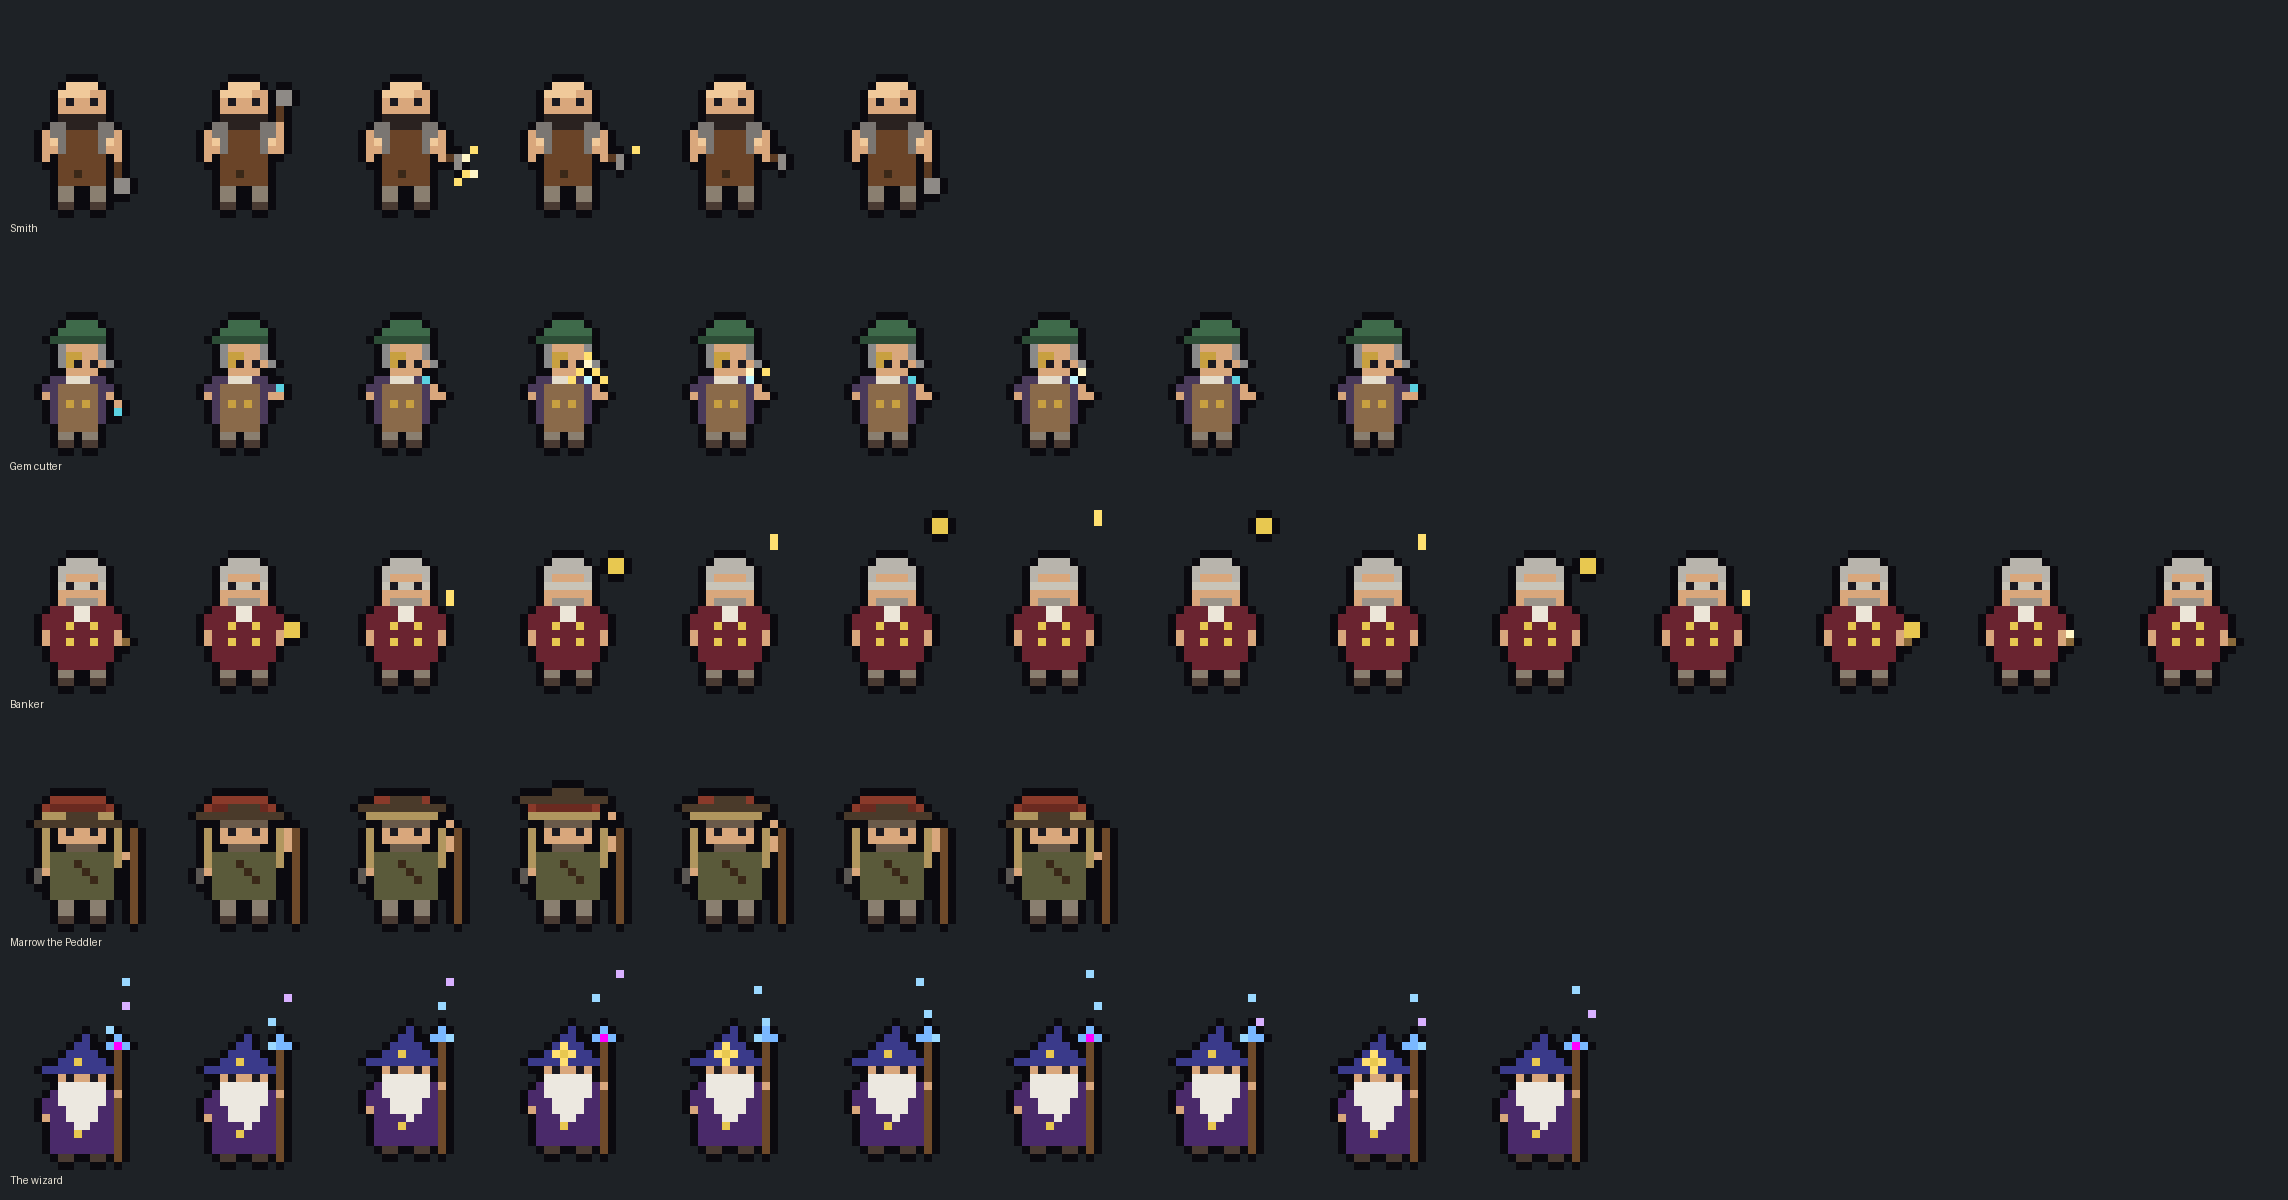
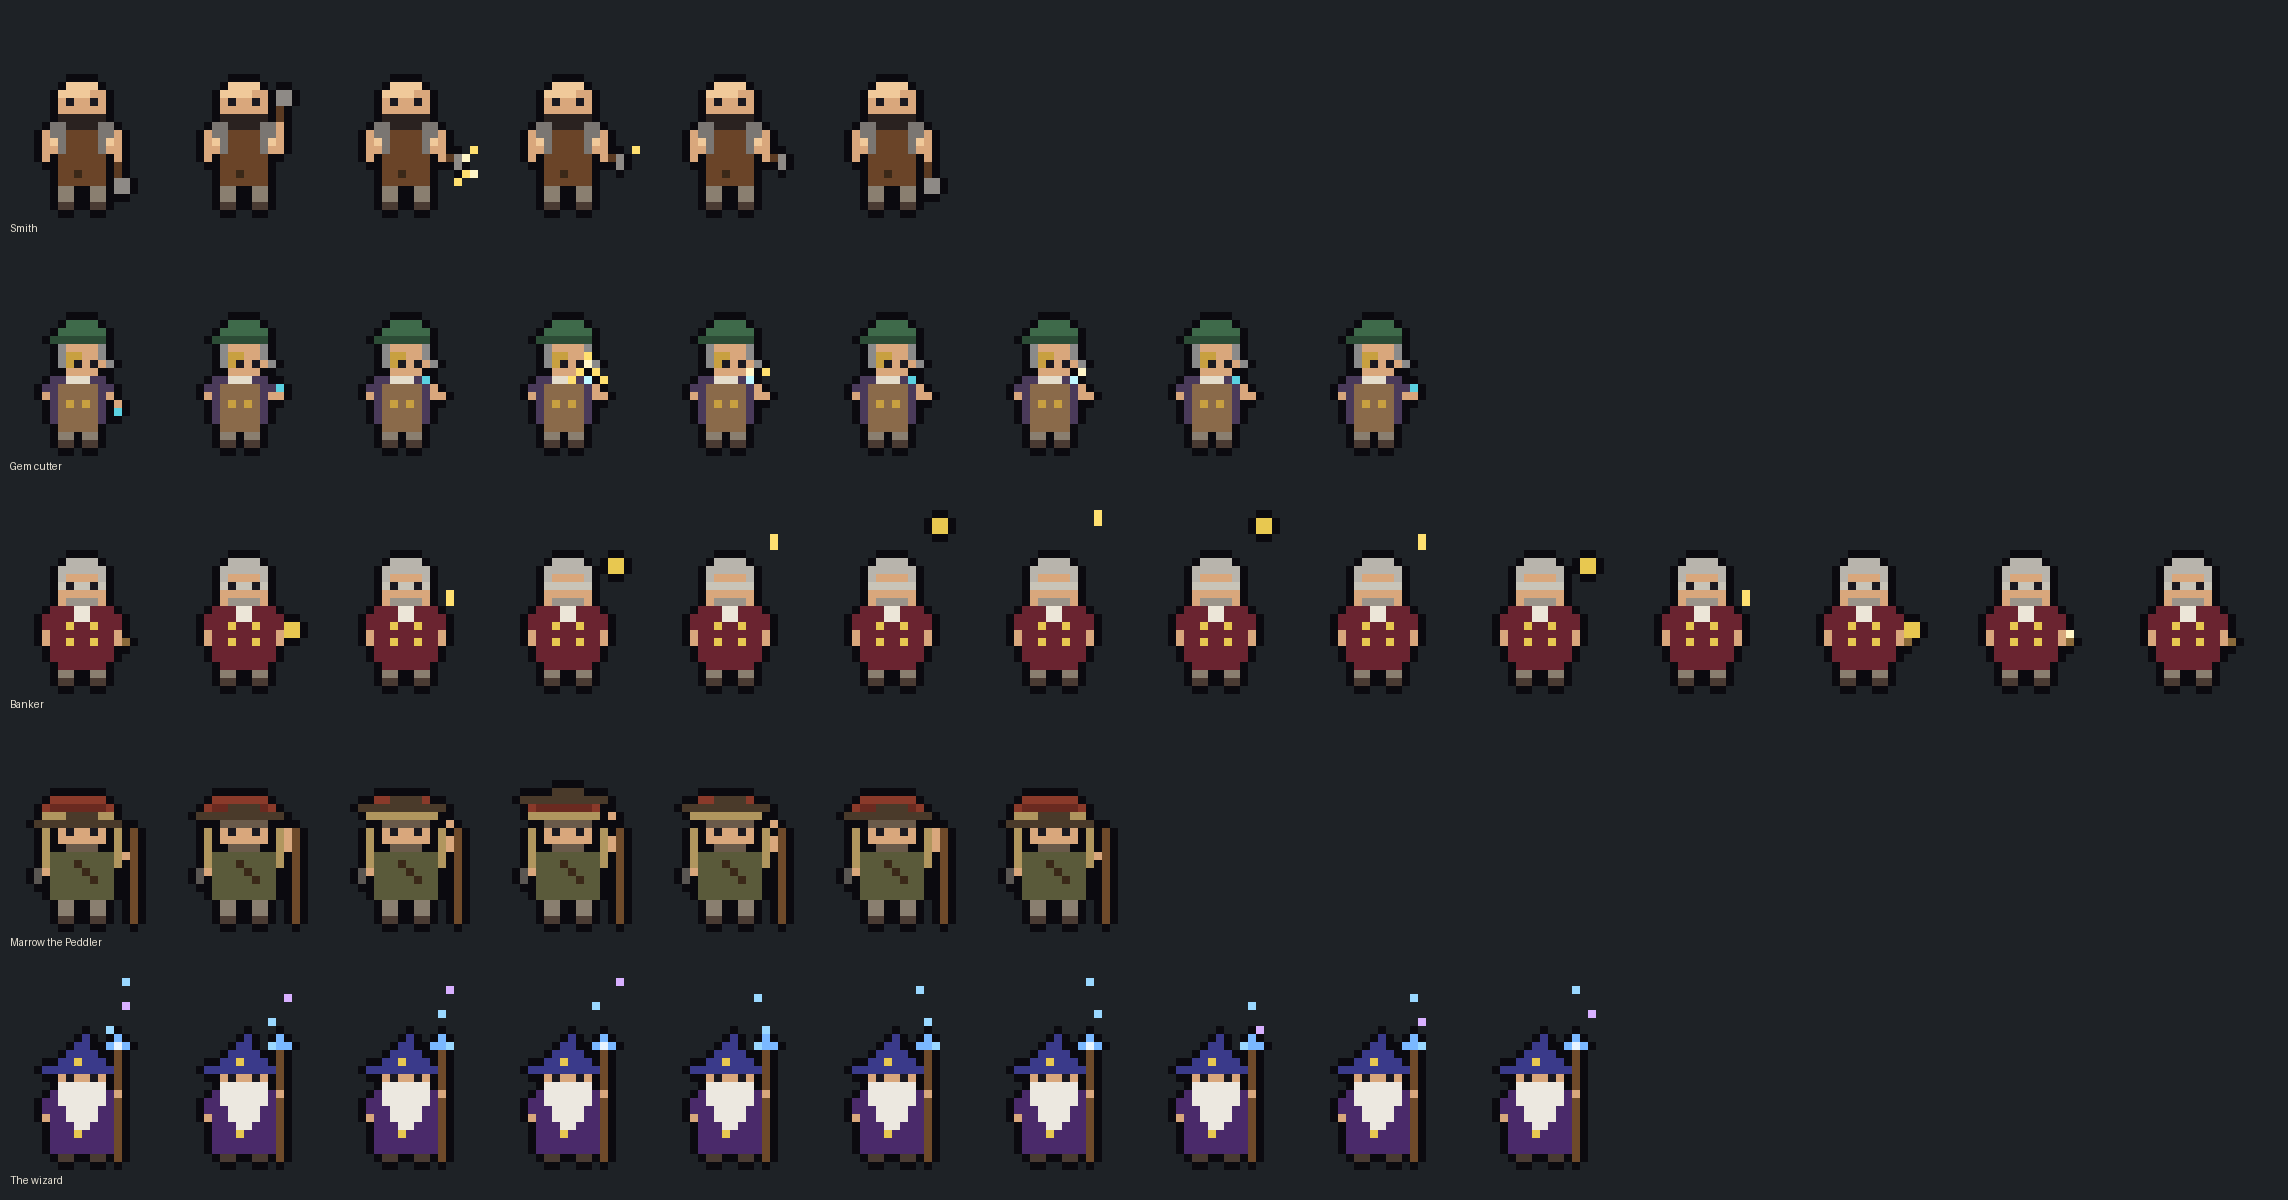
Townsfolk draft 2 OK'd; the wizard keeps only his staff animation
Claude-Session: https://claude.ai/code/session_012jDnDEzHaeD3VmYmvy65PL

Changed region(s): [[0.1552, 0.8325, 0.3413, 0.9867], [0.4344, 0.8325, 0.5586, 0.9867], [0.3724, 0.8633, 0.4034, 0.9867]]

diff --git a/art/drafts/townsfolk-review/index.html b/art/drafts/townsfolk-review/index.html
@@ -32,7 +32,7 @@ p{max-width:68ch;margin:0 0 12px}.soft{color:var(--soft)}
 <div class="p"><b>Gem cutter</b><div class="pic"><img src="townsfolk-draft2-gems.gif" alt="Gem cutter idle loop"></div><p>Lifts the gem up under her chin and turns it in the light. It flashes twice, then she lowers it.</p></div>
 <div class="p"><b>Banker</b><div class="pic"><img src="townsfolk-draft2-bank.gif" alt="Banker idle loop"></div><p>Flicks the coin high over his head. It spins (face, edge, face) on the way up and down, and he catches it. His glasses glint as he looks up.</p></div>
 <div class="p"><b>Marrow the Peddler</b><div class="pic"><img src="townsfolk-draft2-marrow.gif" alt="Marrow idle loop"></div><p>No more wink. He tips his hat right off his head, holds it there a moment, and puts it back.</p></div>
-<div class="p"><b>The wizard</b><div class="pic"><img src="townsfolk-draft2-wizard.gif" alt="Wizard idle loop"></div><p>Rises a pixel off the ground on a faint violet glow and floats. The orb swirls and sends sparks drifting up, the star on his hat twinkles, and his beard sways.</p></div>
+<div class="p"><b>The wizard</b><div class="pic"><img src="townsfolk-draft2-wizard.gif" alt="Wizard idle loop"></div><p>Stands still. Only his staff moves: the orb swirls and sends sparks floating up (owner, Nov 28).</p></div>
 </div>
 <h2>Every frame</h2>
 <div class="pic"><img src="townsfolk-draft2-frames.png" alt="All frames of every loop, one row per person"></div>
@@ -41,7 +41,7 @@ p{max-width:68ch;margin:0 0 12px}.soft{color:var(--soft)}
 <div class="pic"><img src="townsfolk-draft1-town.png" alt="Town 1 from above with the five townsfolk at their stations"></div>
 <div class="ask"><b>For your notes</b><ul>
 <li>Does each loop read now, and is the pace right? (Each one waits about a second between moves.)</li>
-<li>Is the wizard enough now, or does he need something bigger?</li>
+<li>Owner OK'd all five (Nov 28); next they go into the game.</li>
 <li>Placeholder names for now. Want any of them named?</li>
 </ul><p class="soft">After your notes they go into the game at their spots. Tapping one opens their service: repairs, enchanting, bank, buy and sell, quest. The campfire keeps resting and fork swaps.</p></div>
 </div>

diff --git a/tools/townsfolk_draft.py b/tools/townsfolk_draft.py
@@ -132,7 +132,7 @@ def frame(id, body_mods=None, over=None, bob=0, drop=()):
         if 0<=x<GW and 0<=y<GH: g[y][x]=c
     return g
 def render(id, g, S=1):
-    W,H=GW+2,GH+2; pal={**COMMON, **NPC[id]['pal'], **GLOWPAL}
+    W,H=GW+2,GH+2; pal={'W':'#e8f4ff',**COMMON, **NPC[id]['pal'], **GLOWPAL}
     G=[['.']*W]+[['.']+r+['.'] for r in g]+[['.']*W]
     solid=lambda x,y: 0<=x<W and 0<=y<H and G[y][x] not in GLOW and G[y][x]!='.'
     im=Image.new('RGBA',(W,H),(0,0,0,0))
@@ -182,25 +182,17 @@ def loop(id):
             mods[(11,7)]='.'
             return frame(id,mods,o)
         F=[(frame(id),1000),(lifted(1),140),(lifted(2),160),(lifted(3),600),(lifted(2),140),(lifted(1),140),(frame(id),900)]
-    if id=='wizard':  # the orb swirls and sends motes up, the hat star twinkles, he floats on a glow
-        hat={}   # owner: the designs are good, only the animation changes (no taller hat)
+    if id=='wizard':  # owner (Nov 28): keep only the staff animation: the orb swirls and sends sparks floating up.
+        # He stands still: no float, no beard sway, no hat star twinkle.
         n=10
         for k in range(n):
-            bob=1 if 2<=k<=7 else 0
-            o=dict(hat)
-            if bob: hat_b={(x,y-1):c for (x,y),c in hat.items()}; o=hat_b
-            ox,oy=B(10,1); oy-=bob
+            o={}; ox,oy=B(10,1)
             o[(ox,oy)]='W' if k%3==0 else 'M'
             o[(ox-1,oy)]='~' if k%3==1 else 'M'; o[(ox+1,oy)]='~' if k%3==2 else 'M'
-            for m in range(3):                      # three motes drifting up from the orb, staggered
+            for m in range(3):                      # three sparks drifting up from the orb, staggered
                 t=(k+m*3)%n; mx=ox+(-1,1,0)[m]+(1 if t%4==2 else 0); my=oy-2-t
                 if my>=0 and t<7: o[(mx,my)]='^' if m==1 else '~'
-            if k in (3,4,8): sx,sy=B(5,3); sy-=bob; o.update({(sx,sy-1):'+',(sx-1,sy):'+',(sx+1,sy):'+',(sx,sy+1):'+'})
-            if bob:                                  # the glow under his feet while he floats
-                fx,fy=B(3,16); o.update({(fx,fy):'^',(fx+5,fy):'^',(fx+2,fy):'~',(fx+3,fy):'~'})
-            mods={}
-            if k%4 in (1,2): mods[(5,11)]='V'; mods[(6,11)]='B'    # the beard sways
-            F.append((frame(id,mods,o,bob=bob),150))
+            F.append((frame(id,{},o),150))
     return F
 
 if __name__=='__main__':

diff --git a/docs/board.md b/docs/board.md
@@ -208,7 +208,7 @@ Value: H/M/L. Effort: S/M/L. Phase: when it fits.
 | Free-form HUD editor (place every button anywhere) | L | L | later |
 | Level design: the Gate Road is a rough sandbox. Design a real starting area that feels lively and detailed | H | L | after UI and classes |
 | **Crossroads gate to match Town 1's stone wall** (owner, Nov 27, v0.153): Town 1's wall is stone now, but from the crossroads its gate is still the v0.64 timber gatehouse in a log palisade. Redraw it as a stone gatehouse in a stone wall so both sides match (with the Town 1 build, when the gate opens) | M | S | with the Town 1 build |
-| **Town 1: a small Diablo-style hub** (owner, Nov 27, map chat). **Owner's answers:** a **hub, not a city**: "like Diablo, but smaller"; nobody should walk around a big town looking for someone, since getting lost on a phone is a burden. **Everyone you need stands round one town square:** the hearth (start, rest, swap forks: what campfires do today), the **smith** (repair), the **gem cutter** (enchanting: orbs, +1 to +5, orb dust; the forge card's stand-in), the **bank**, **Marrow the Peddler** (sell, buy orbs), and the **wizard** with the main quest line. **New characters start in town by the hearth and walk out the gate** to the crossroads. **No style takes:** same dusk look as the crossroads. **Draft 1 map** (`js/data/maps/town1.js`, 30 × 26, passes the checker, not loaded yet): gate north, a road down into a flagstone square with the hearth in the middle, smith and bank either side of the road in, Marrow's wagon west, the gem table east, the wizard's tower facing the gate at the south end with his scrying orb in front, four townhouses and a well behind for a sense of town; farthest walk about 18 s. New objects (data only): forge, bank, townhouse, wizard_tower, orb_stand, gem_table. **Owner OK'd draft 1 (Nov 27: "everything looks perfect"). v0.143: the buildings are drawn and the town is in the game behind DEV only** (owner to walk it). **Draft 2 (owner, Nov 27: make it a circle, cozier, closer together, more flavour, a stable where the wizard sells horses on the side) built v0.148, stone town wall v0.153; owner OK'd it Nov 28 ("this looks a lot better")**: round stone wall, round flagstone square with the hearth in the middle, smith and bank by the road in, gem cutter and Marrow's wagon west, a townhouse and the well south-west, the wizard's tower facing the gate with his orb on the square's edge, his thatched stable beside it and a paddock of three horses against the east wall; benches, barrels, worn paths, chimney smoke; hearth to the farthest service about 5 s. Your first mount comes from the wizard (mounts card). **Townsfolk draft 1 (Nov 28, owner said go):** smith, gem cutter, banker, Marrow the Peddler and the wizard at 15 × 18 with two idle frames each, shown on the review page "Town 1 townsfolk draft 1" (slug `07b73b4d-d0b8-4fcb-a287-b2a74aa9e427`; `python3 tools/townsfolk_draft.py` → `art/drafts/townsfolk-draft1.*`). **Owner on draft 1 (Nov 28): designs are good, the animations aren't** (gem cutter not enough, the banker's coin must fly, Marrow's wink doesn't read, the wizard is lame). **Draft 2** (same page, now "Town 1 townsfolk draft 2"): real idle loops on a taller grid (19 × 26 with room over the head): smith strikes with sparks, gem cutter lifts and turns the gem and it flashes, banker flicks the coin high and catches it, Marrow tips his hat off, the wizard floats on a glow while his orb sends sparks up and his hat star twinkles. **Owner to mark**, then the build (townsfolk at their stations, tap one for its service). **Next: the build:** townsfolk (smith, gem cutter, banker, Marrow, the wizard) drawn at 15 × 18 and standing at their stations, then services move from the campfire menu to the townsfolk (campfires keep resting and fork swaps), the crossroads gate opens, the start moves into town | H | M | **now for the map chat** |
+| **Town 1: a small Diablo-style hub** (owner, Nov 27, map chat). **Owner's answers:** a **hub, not a city**: "like Diablo, but smaller"; nobody should walk around a big town looking for someone, since getting lost on a phone is a burden. **Everyone you need stands round one town square:** the hearth (start, rest, swap forks: what campfires do today), the **smith** (repair), the **gem cutter** (enchanting: orbs, +1 to +5, orb dust; the forge card's stand-in), the **bank**, **Marrow the Peddler** (sell, buy orbs), and the **wizard** with the main quest line. **New characters start in town by the hearth and walk out the gate** to the crossroads. **No style takes:** same dusk look as the crossroads. **Draft 1 map** (`js/data/maps/town1.js`, 30 × 26, passes the checker, not loaded yet): gate north, a road down into a flagstone square with the hearth in the middle, smith and bank either side of the road in, Marrow's wagon west, the gem table east, the wizard's tower facing the gate at the south end with his scrying orb in front, four townhouses and a well behind for a sense of town; farthest walk about 18 s. New objects (data only): forge, bank, townhouse, wizard_tower, orb_stand, gem_table. **Owner OK'd draft 1 (Nov 27: "everything looks perfect"). v0.143: the buildings are drawn and the town is in the game behind DEV only** (owner to walk it). **Draft 2 (owner, Nov 27: make it a circle, cozier, closer together, more flavour, a stable where the wizard sells horses on the side) built v0.148, stone town wall v0.153; owner OK'd it Nov 28 ("this looks a lot better")**: round stone wall, round flagstone square with the hearth in the middle, smith and bank by the road in, gem cutter and Marrow's wagon west, a townhouse and the well south-west, the wizard's tower facing the gate with his orb on the square's edge, his thatched stable beside it and a paddock of three horses against the east wall; benches, barrels, worn paths, chimney smoke; hearth to the farthest service about 5 s. Your first mount comes from the wizard (mounts card). **Townsfolk draft 1 (Nov 28, owner said go):** smith, gem cutter, banker, Marrow the Peddler and the wizard at 15 × 18 with two idle frames each, shown on the review page "Town 1 townsfolk draft 1" (slug `07b73b4d-d0b8-4fcb-a287-b2a74aa9e427`; `python3 tools/townsfolk_draft.py` → `art/drafts/townsfolk-draft1.*`). **Owner on draft 1 (Nov 28): designs are good, the animations aren't** (gem cutter not enough, the banker's coin must fly, Marrow's wink doesn't read, the wizard is lame). **Draft 2** (same page, now "Town 1 townsfolk draft 2"): real idle loops on a taller grid (19 × 26 with room over the head): smith strikes with sparks, gem cutter lifts and turns the gem and it flashes, banker flicks the coin high and catches it, Marrow tips his hat off, the wizard floats on a glow while his orb sends sparks up and his hat star twinkles. **Owner OK'd draft 2 (Nov 28: "it looks great")** with one change: the wizard stands still and only his staff animates (orb swirl, sparks floating up). Next: the build (townsfolk at their stations, tap one for its service). **Next: the build:** townsfolk (smith, gem cutter, banker, Marrow, the wizard) drawn at 15 × 18 and standing at their stations, then services move from the campfire menu to the townsfolk (campfires keep resting and fork swaps), the crossroads gate opens, the start moves into town | H | M | **now for the map chat** |
 | NPC companion to fill a missing role | M | L | phase 3 |
 | Personal loot for everyone, no rolling | H | S | phase 3 (already personal in solo) |
 | Get players into dungeons quickly so others can't steal their mobs | H | M | phase 3 |
